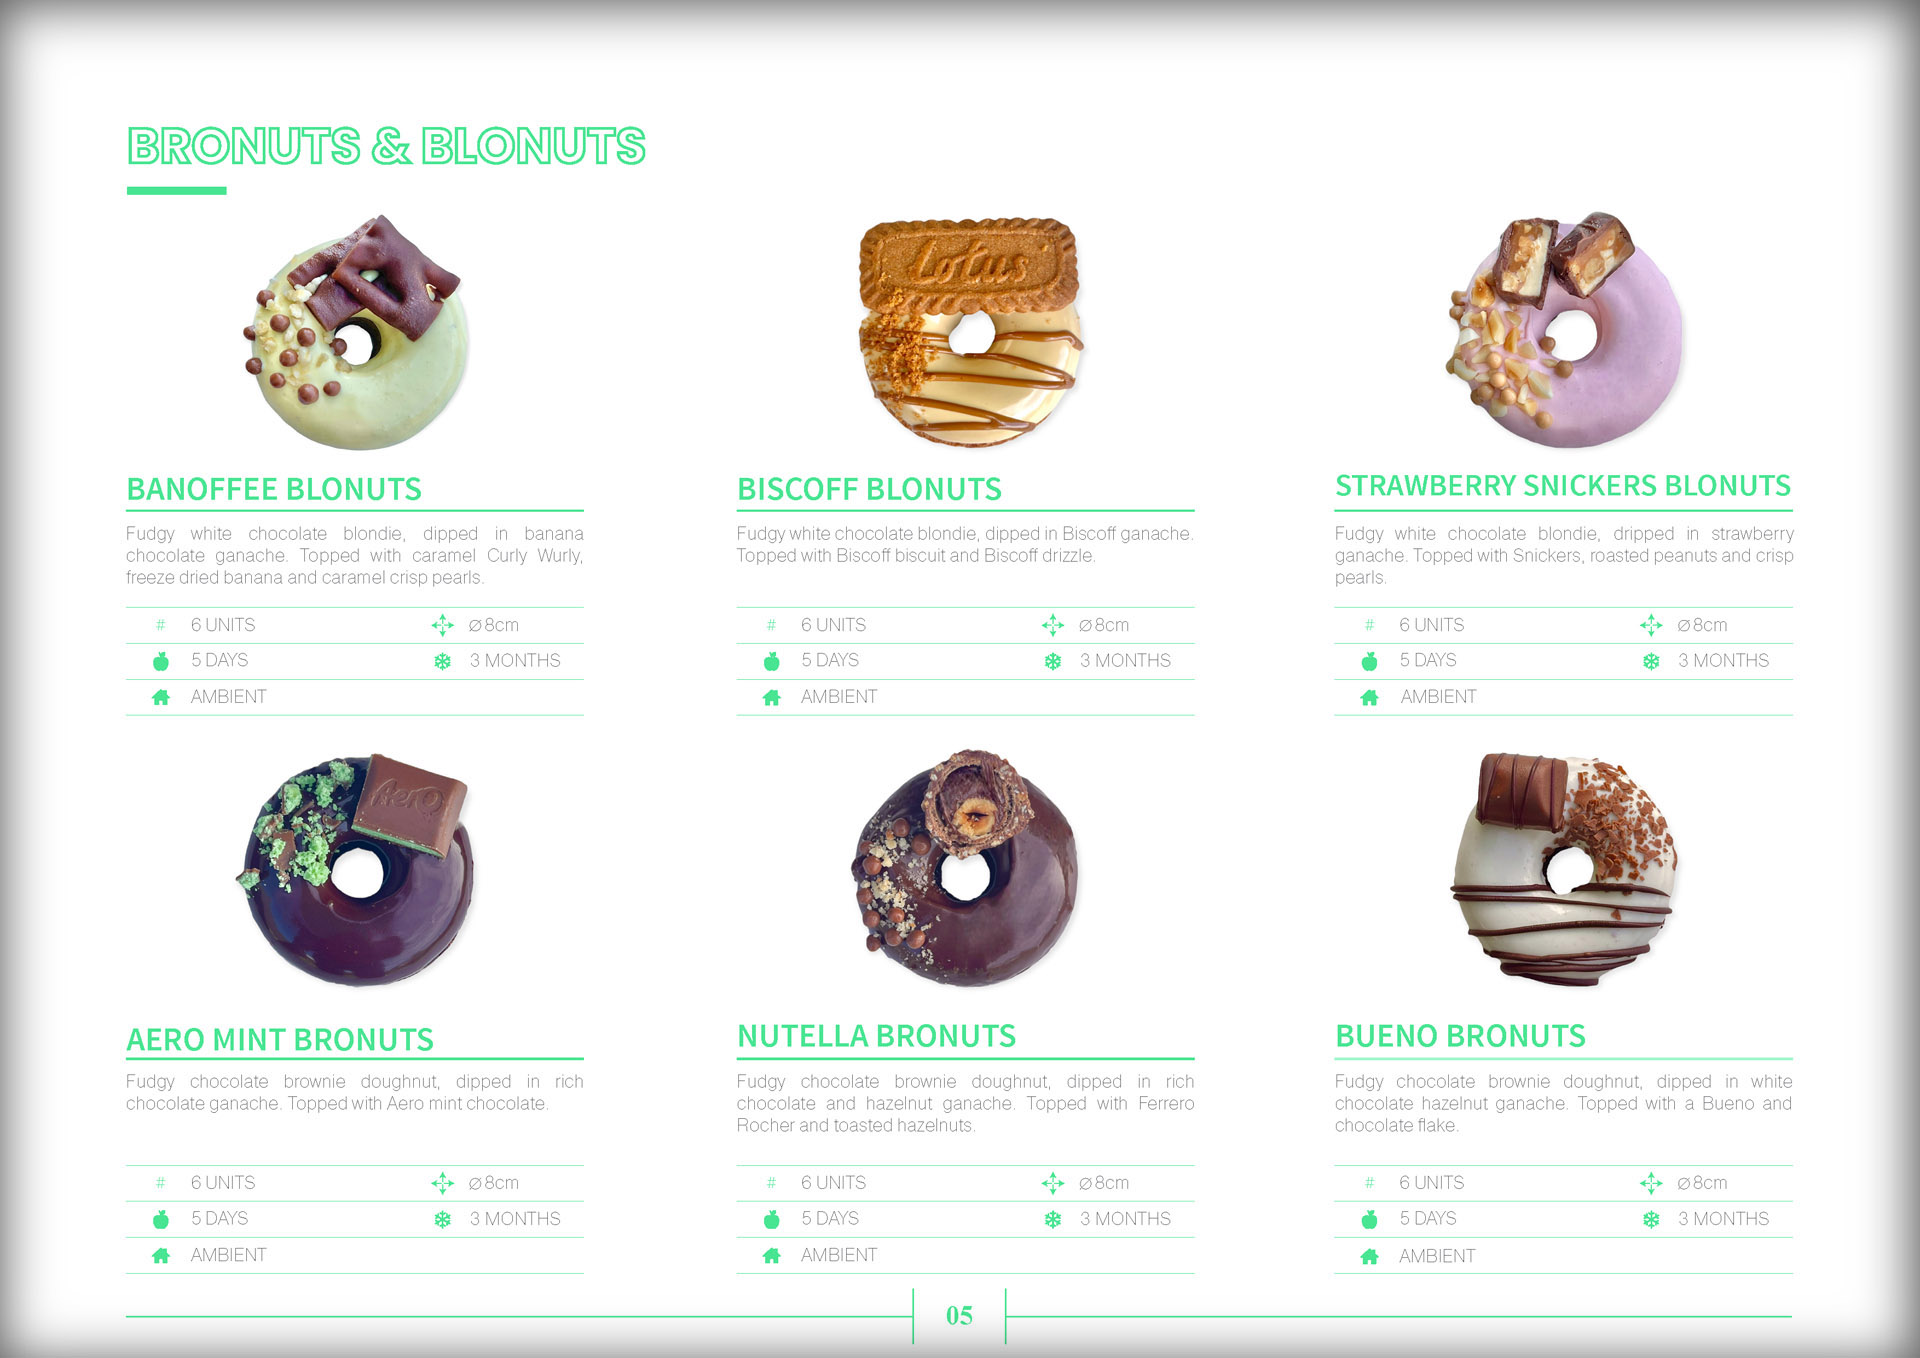
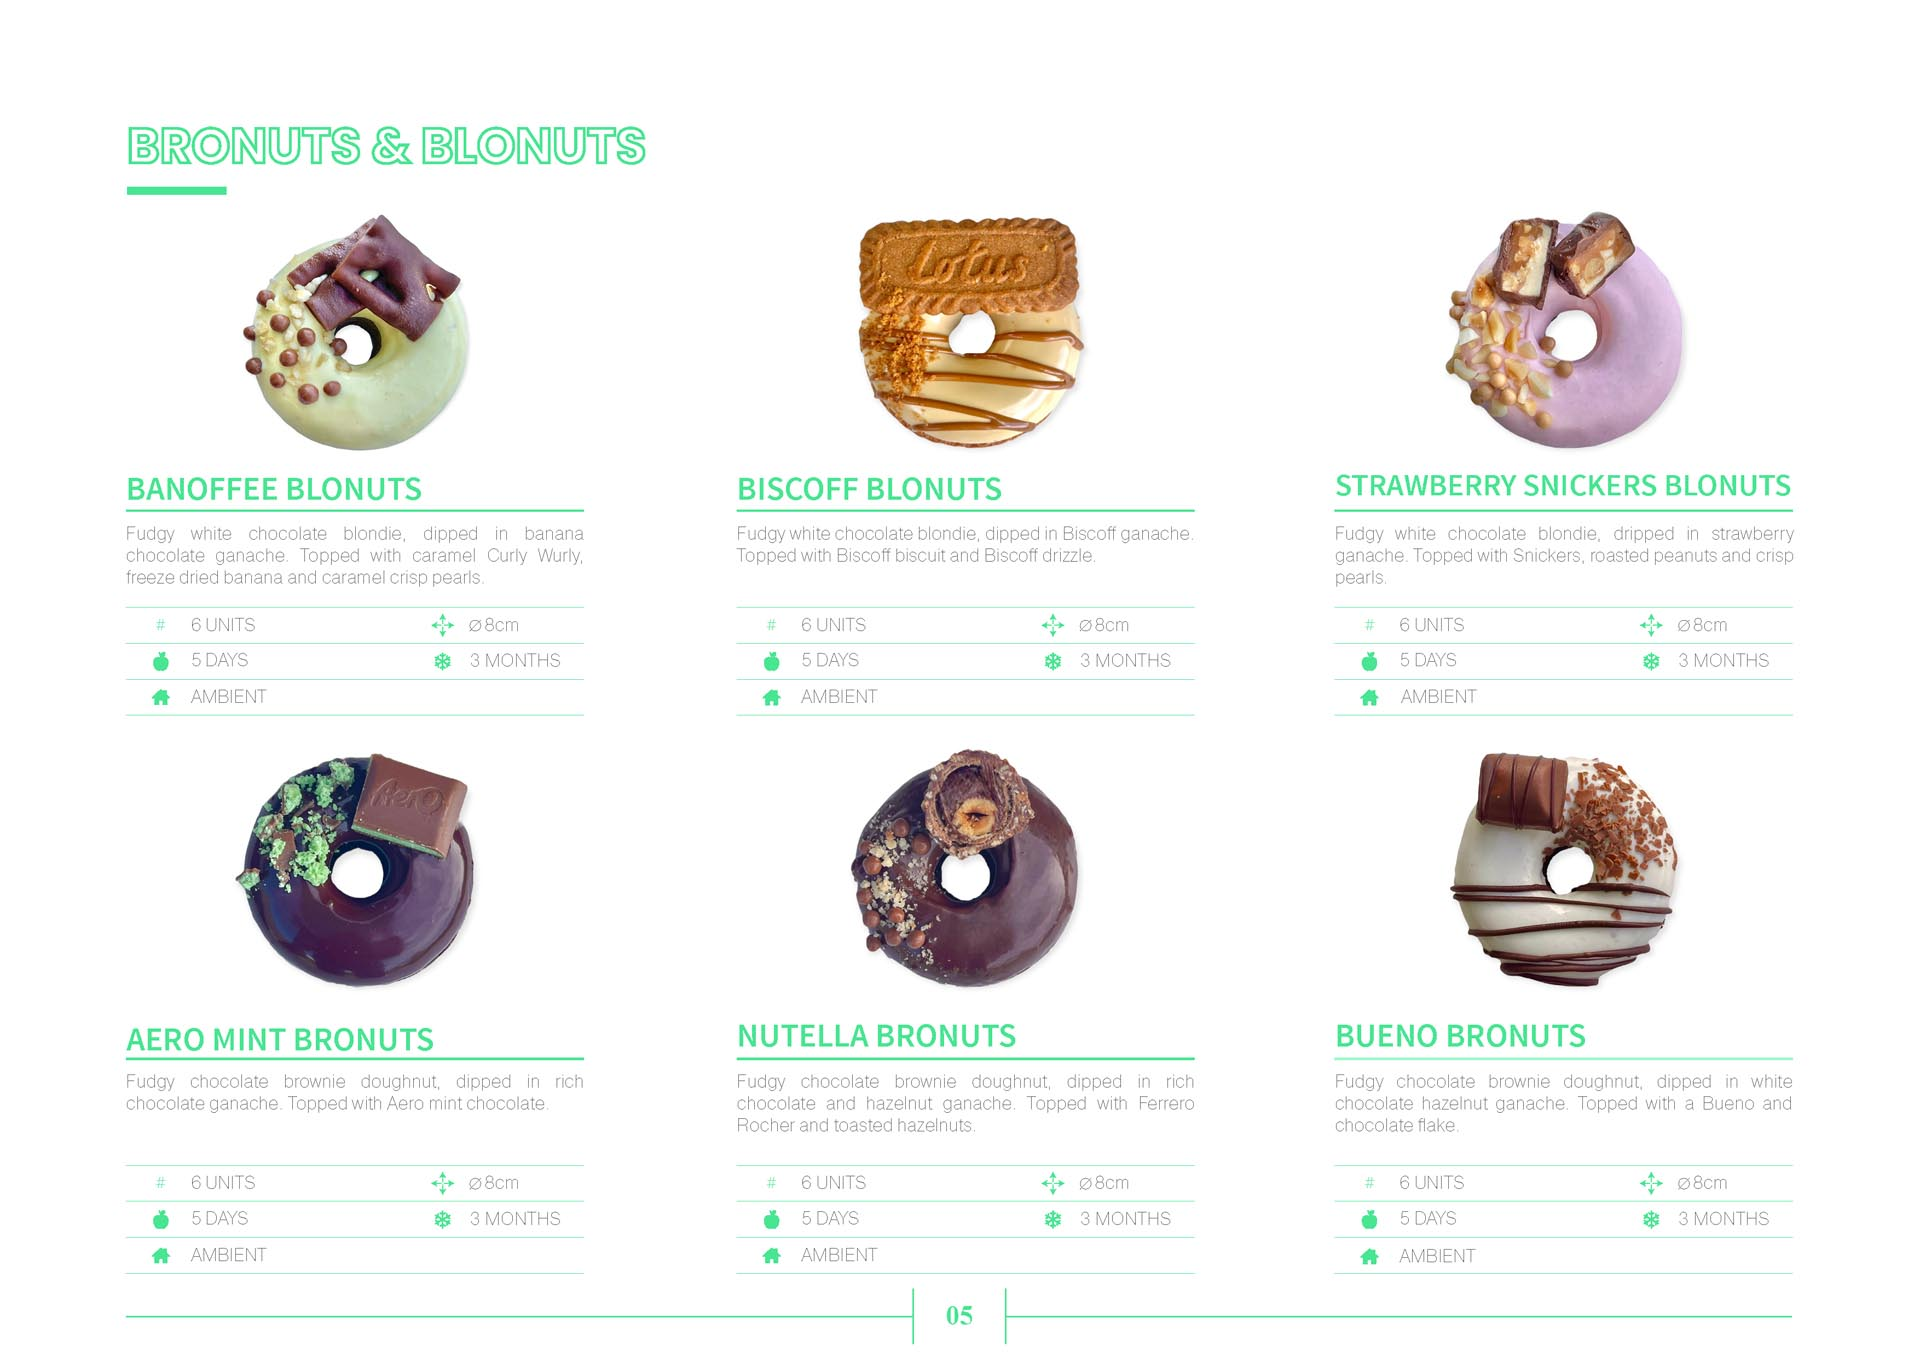
Updates 15-4-2023

diff --git a/src/src/main.scss b/src/src/main.scss
@@ -8,10 +8,13 @@ body{
 
 .container {
     overflow: hidden;
-    height: 100vh;
+    //height: 100vh;
 }
+
+
+
 .flip-container {
-    width: 98vw;
+    width: 1080px;
     margin: auto;
 
         .flip-page{
@@ -21,17 +24,20 @@ body{
     }
 }
 
+
+
 // sub saciton heading and visit us area
 .heading {
     text-transform: uppercase;
     font-family: 'roboto';
     color: $heading-color;
-    margin: 30px 0;
+    margin: 10px 0;
     text-align: center;
     @include text-shadow;
 
 
         h1 {
+            font-size: 20px;
             font-weight: 700;
             display: inline-block;
             border-bottom: 2px solid $heading-color;
@@ -69,10 +75,11 @@ body{
         text-transform: uppercase;
         @include site-trasition;
         @include add-page-shadow;
-        color: $heading-color;
+        color: $pimary-green;
+        background-color: $hover-color;
         &:hover {
-            background: $heading-color;
             color: $body-color;
+            background: rgb(0, 0, 0);
         }
     }
 }
@@ -84,5 +91,13 @@ body{
         width: 80px;
         font-size: 14px;
         padding: 7px;
+    }
+}
+
+
+// laptop
+@include below-laptop {
+    .flip-container {
+        width: 95%;
     }
 }

diff --git a/src/src/main.css b/src/src/main.css
@@ -5,16 +5,15 @@
 }
 
 body {
-  background: #b1fbe3;
+  background: #f5f5f5;
 }
 
 .container {
   overflow: hidden;
-  height: 100vh;
 }
 
 .flip-container {
-  width: 98vw;
+  width: 1080px;
   margin: auto;
 }
 .flip-container .flip-page img {
@@ -25,11 +24,12 @@ body {
   text-transform: uppercase;
   font-family: "roboto";
   color: #ff489a;
-  margin: 30px 0;
+  margin: 10px 0;
   text-align: center;
   text-shadow: 1px 3px 6px rgba(0, 0, 0, 0.28);
 }
 .heading h1 {
+  font-size: 20px;
   font-weight: 700;
   display: inline-block;
   border-bottom: 2px solid #ff489a;
@@ -64,11 +64,12 @@ body {
   box-shadow: 0px 0px 16px 1px rgba(0, 0, 0, 0.28);
   -webkit-box-shadow: 0px 0px 16px 1px rgba(0, 0, 0, 0.28);
   -moz-box-shadow: 0px 0px 16px 1px rgba(0, 0, 0, 0.28);
-  color: #ff489a;
+  color: #b1fbe3;
+  background-color: #2d3f39;
 }
 .flip-btn-area button:hover {
-  background: #ff489a;
-  color: #b1fbe3;
+  color: #f5f5f5;
+  background: rgb(0, 0, 0);
 }
 
 @media (max-width: 768px) {
@@ -76,5 +77,10 @@ body {
     width: 80px;
     font-size: 14px;
     padding: 7px;
+  }
+}
+@media (max-width: 1080px) {
+  .flip-container {
+    width: 95%;
   }
 }/*# sourceMappingURL=main.css.map */

diff --git a/src/src/Flip.js b/src/src/Flip.js
@@ -3,7 +3,7 @@ import { useRef } from "react";
 import HTMLFlipBook from "react-pageflip"
 import { nanoid } from "nanoid";
 
-export default function FlipDemo() {
+export default function FlipDemo(props) {
 
     //Getting images
     const flipPages = []
@@ -20,19 +20,21 @@ export default function FlipDemo() {
     // next prev function
     const book = useRef()
 
+    
+    const pageWidth = 1080;
+
     return (
         <main className="flip-container">
             <HTMLFlipBook 
-                width={700} 
-                height={495} 
+                width={pageWidth} 
+                height={764} 
                 drawShadow={true}
-                showCover={true}
+                showCover={false}
                 size={"stretch"}
                 maxShadowOpacity={1}
                 ref={book}
                 mobileScrollSupport={true}
-                minWidth={300}
-                minHeight={400}
+                minWidth={window.innerWidth <= pageWidth? window.innerWidth -100 : pageWidth}
                 >
                 {pagesToDisplay}
             </HTMLFlipBook>

diff --git a/src/src/_config.scss b/src/src/_config.scss
@@ -1,8 +1,12 @@
-$body-color: #b1fbe3;
+$body-color: #f5f5f5;
 $heading-color: #ff489a;
 $hover-color: #2d3f39;
+$pimary-green: #b1fbe3;
 
 $mobile-width: 768px;
+$laptop-width: 1080px;
+
+
 @mixin add-page-shadow {
     box-shadow: 0px 0px 16px 1px rgba(0,0,0,0.28);
 -webkit-box-shadow: 0px 0px 16px 1px rgba(0,0,0,0.28);
@@ -22,6 +26,13 @@ $mobile-width: 768px;
 
 @mixin tab-mobile {
     @media (max-width: #{$mobile-width}){
+        @content;
+    }
+}
+
+
+@mixin below-laptop {
+    @media (max-width: #{$laptop-width}){
         @content;
     }
 }

diff --git a/src/App.js b/src/App.js
@@ -10,9 +10,9 @@ export default function App(props) {
                 <h1>Product Catalogue</h1>
             </div>
             <Flip />
-            <div className="website heading">
+            {/* <div className="website heading">
                 <a href="https://www.copperandcocoa.com.au" target="_blank" rel="noreferrer">Visit us</a>
-            </div>
+            </div> */}
         </div>
     )
 }
